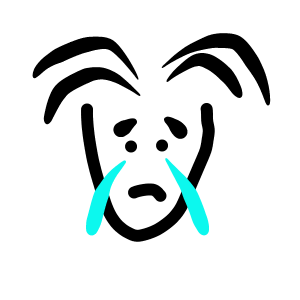
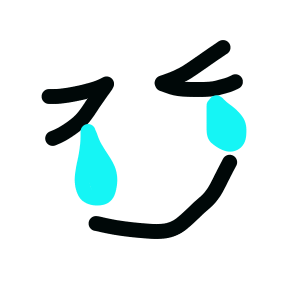
[update] 失敗画像を変更

Changed region(s): [[0.09, 0.09, 0.9, 0.81], [0.36, 0.39, 0.48, 0.51]]

diff --git a/nikki_project/nikki/templates/nikki/rules.html b/nikki_project/nikki/templates/nikki/rules.html
@@ -9,7 +9,7 @@
 <div class="container py-4">
   <h4 class="font-weight-bold my-2">利用規約</h4>
   <p class="mt-4 mb-2">
-    (1)この利用規約（以下「本規約」）は、ご利用者（以下「ユーザー」（法人含む））および当方の提供するサービスである「ぼくたちの失敗日記」に関わるその他のユーザーと当方（開発者：宇野貴昭）の関係に適用されるサービス規約です。
+    （１）この利用規約（以下「本規約」）は、ご利用者（以下「ユーザー」（法人含む））および当方の提供するサービスである「ぼくたちの失敗日記」に関わるその他のユーザーと当方（開発者：宇野貴昭）の関係に適用されるサービス規約です。
   </p>
   <p class="mt-4 mb-2">
     本規約内での「アプリ」とは、当方の提供するプログラムでユーザー所有の端末内にインストールされたもの、および当方と契約関係にあるデータベースまたはサーバー内において提供されているプログラムのすべてを含むものとする。
@@ -18,13 +18,13 @@
     ユーザーは本規約に同意した場合のみアプリを利用することができ、本規約を閲覧する行為または当アプリから退場する行為以外の行為（電磁的な手段、その他の手段を含む）をした時点で本規約に同意したものとみなす。
   </p>
   <p class="mt-5 mb-2">
-    (2)ユーザーは法令、条例、その他の規則を遵守し、当アプリを利用するにあたり他のユーザーまたは当方に対して誠実に接するように努めなければならない。
+    （２）ユーザーは法令、条例、その他の規則を遵守し、当アプリを利用するにあたり他のユーザーまたは当方に対して誠実に接するように努めなければならない。
   </p>
   <p class="mt-5 mb-2">
-    (3)ユーザーは不正な行為をしているまたは、している恐れのある他のユーザーを発見した場合は、速やかに当アプリを管理する当方に通知する義務を負うものとする。
+    （３）ユーザーは不正な行為をしているまたは、している恐れのある他のユーザーを発見した場合は、速やかに当アプリを管理する当方に通知する義務を負うものとする。
   </p>
   <p class="mt-5 mb-2">
-    (4)当方は、予告なく(1)などの規約の内容を変更する場合があります。なお、当方が重要と判断した情報に関してはメールマガジンなどの手法にて通知の手段とする場合があります。
+    （４）当方は、予告なく(1)などの規約の内容を変更する場合があります。なお、当方が重要と判断した情報に関してはメールマガジンなどの手法にて通知の手段とする場合があります。
   </p>
 
   <p class="text-center pt-3 pb-2">

diff --git a/nikki_project/nikki/templates/nikki/privacy.html b/nikki_project/nikki/templates/nikki/privacy.html
@@ -8,19 +8,19 @@
 {% block content %}
 <div class="container py-4">
   <h4 class="font-weight-bold my-2">プライバシーポリシー</h4>
-  <p class="mt-4 mb-2">(1)個人情報の定義について</p>
+  <p class="mt-4 mb-2">（１）個人情報の定義について</p>
   <p>
     当アプリにおいての個人情報とは、個人に関する情報であり、当該情報に含まれるニックネーム、メールアドレス、当アプリの各種コンテンツへのアクセスログや書き込み情報、ユーザーまたは会員が当アプリに発信した全てのもの、及び各個人に付与された数字や記号など、当アプリにおける全てのデータの事をいいます。
   </p>
-  <p class="mt-5 mb-2">(2)個人情報の収集について</p>
+  <p class="mt-5 mb-2">（２）個人情報の収集について</p>
   <p>
     当アプリをより良いコンテンツ及びサービスにする為に、必要に応じてユーザー、または会員の皆様からいくつかの情報を収集させて頂く事があります。（無断では行いません）
   </p>
-  <p class="mt-5 mb-2">(3)個人情報の管理について</p>
+  <p class="mt-5 mb-2">（３）個人情報の管理について</p>
   <p>
     当アプリにおいて個人情報の管理に携わるのは、当アプリの開発、運営者である宇野貴昭に限定されます。
   </p>
-  <p class="mt-5 mb-2">(5)個人情報の開示について</p>
+  <p class="mt-5 mb-2">（４）個人情報の開示について</p>
   <p>
     「ぼくたちの失敗日記」では、当方及び機密保持契約を結んだ当方の協力企業以外に、ユーザーまたは会員の許可なく個人情報を開示することはありません。
     ただし、以下のような場合は、当該ユーザーの事前の同意なく、個人情報を開示する場合があります。

diff --git a/nikki_project/nikki/templates/nikki/base.html b/nikki_project/nikki/templates/nikki/base.html
@@ -12,13 +12,13 @@
   <meta name="author" content="Takaaki Uno">
 
   <!-- favicon -->
-  <link rel="icon" type="image/x-icon" href="./favicon.ico">
+  <link rel="icon" type="image/x-icon" href="{% static 'nikki/favicons/favicon.ico' %}">
   <link rel="apple-touch-icon" sizes="180x180" href="{% static 'nikki/favicons/apple-touch-icon.png' %}">
   <link rel="icon" type="image/png" sizes="32x32" href="{% static 'nikkifavicons/favicon-32x32.png' %}">
   <link rel="icon" type="image/png" sizes="16x16" href="{% static 'nikki/favicons/favicon-16x16.png' %}">
-  <link rel="icon" type="image/png" sizes="192x192" href="{% url 'nikki/favicons/android-chrome-192×192.png' %}">
-  <link rel="icon" type="image/png" sizes="512x512" href="{% url 'nikki/favicons/android-chrome-512×512.png' %}">
-  <link rel="manifest" href="{% url 'nikki/favicons/site.webmanifest' %}">
+  <link rel="icon" type="image/png" sizes="192x192" href="{% static 'nikki/favicons/android-chrome-192×192.png' %}">
+  <link rel="icon" type="image/png" sizes="512x512" href="{% static 'nikki/favicons/android-chrome-512×512.png' %}">
+  <link rel="manifest" href="{% static 'nikki/favicons/site.webmanifest' %}">
   <link rel="mask-icon" href="{% static 'nikki/favicons/safari-pinned-tab.svg' %}" color="#5bbad5">
   <meta name="msapplication-TileColor" content="#da532c">
   <meta name="theme-color" content="#ffffff">
